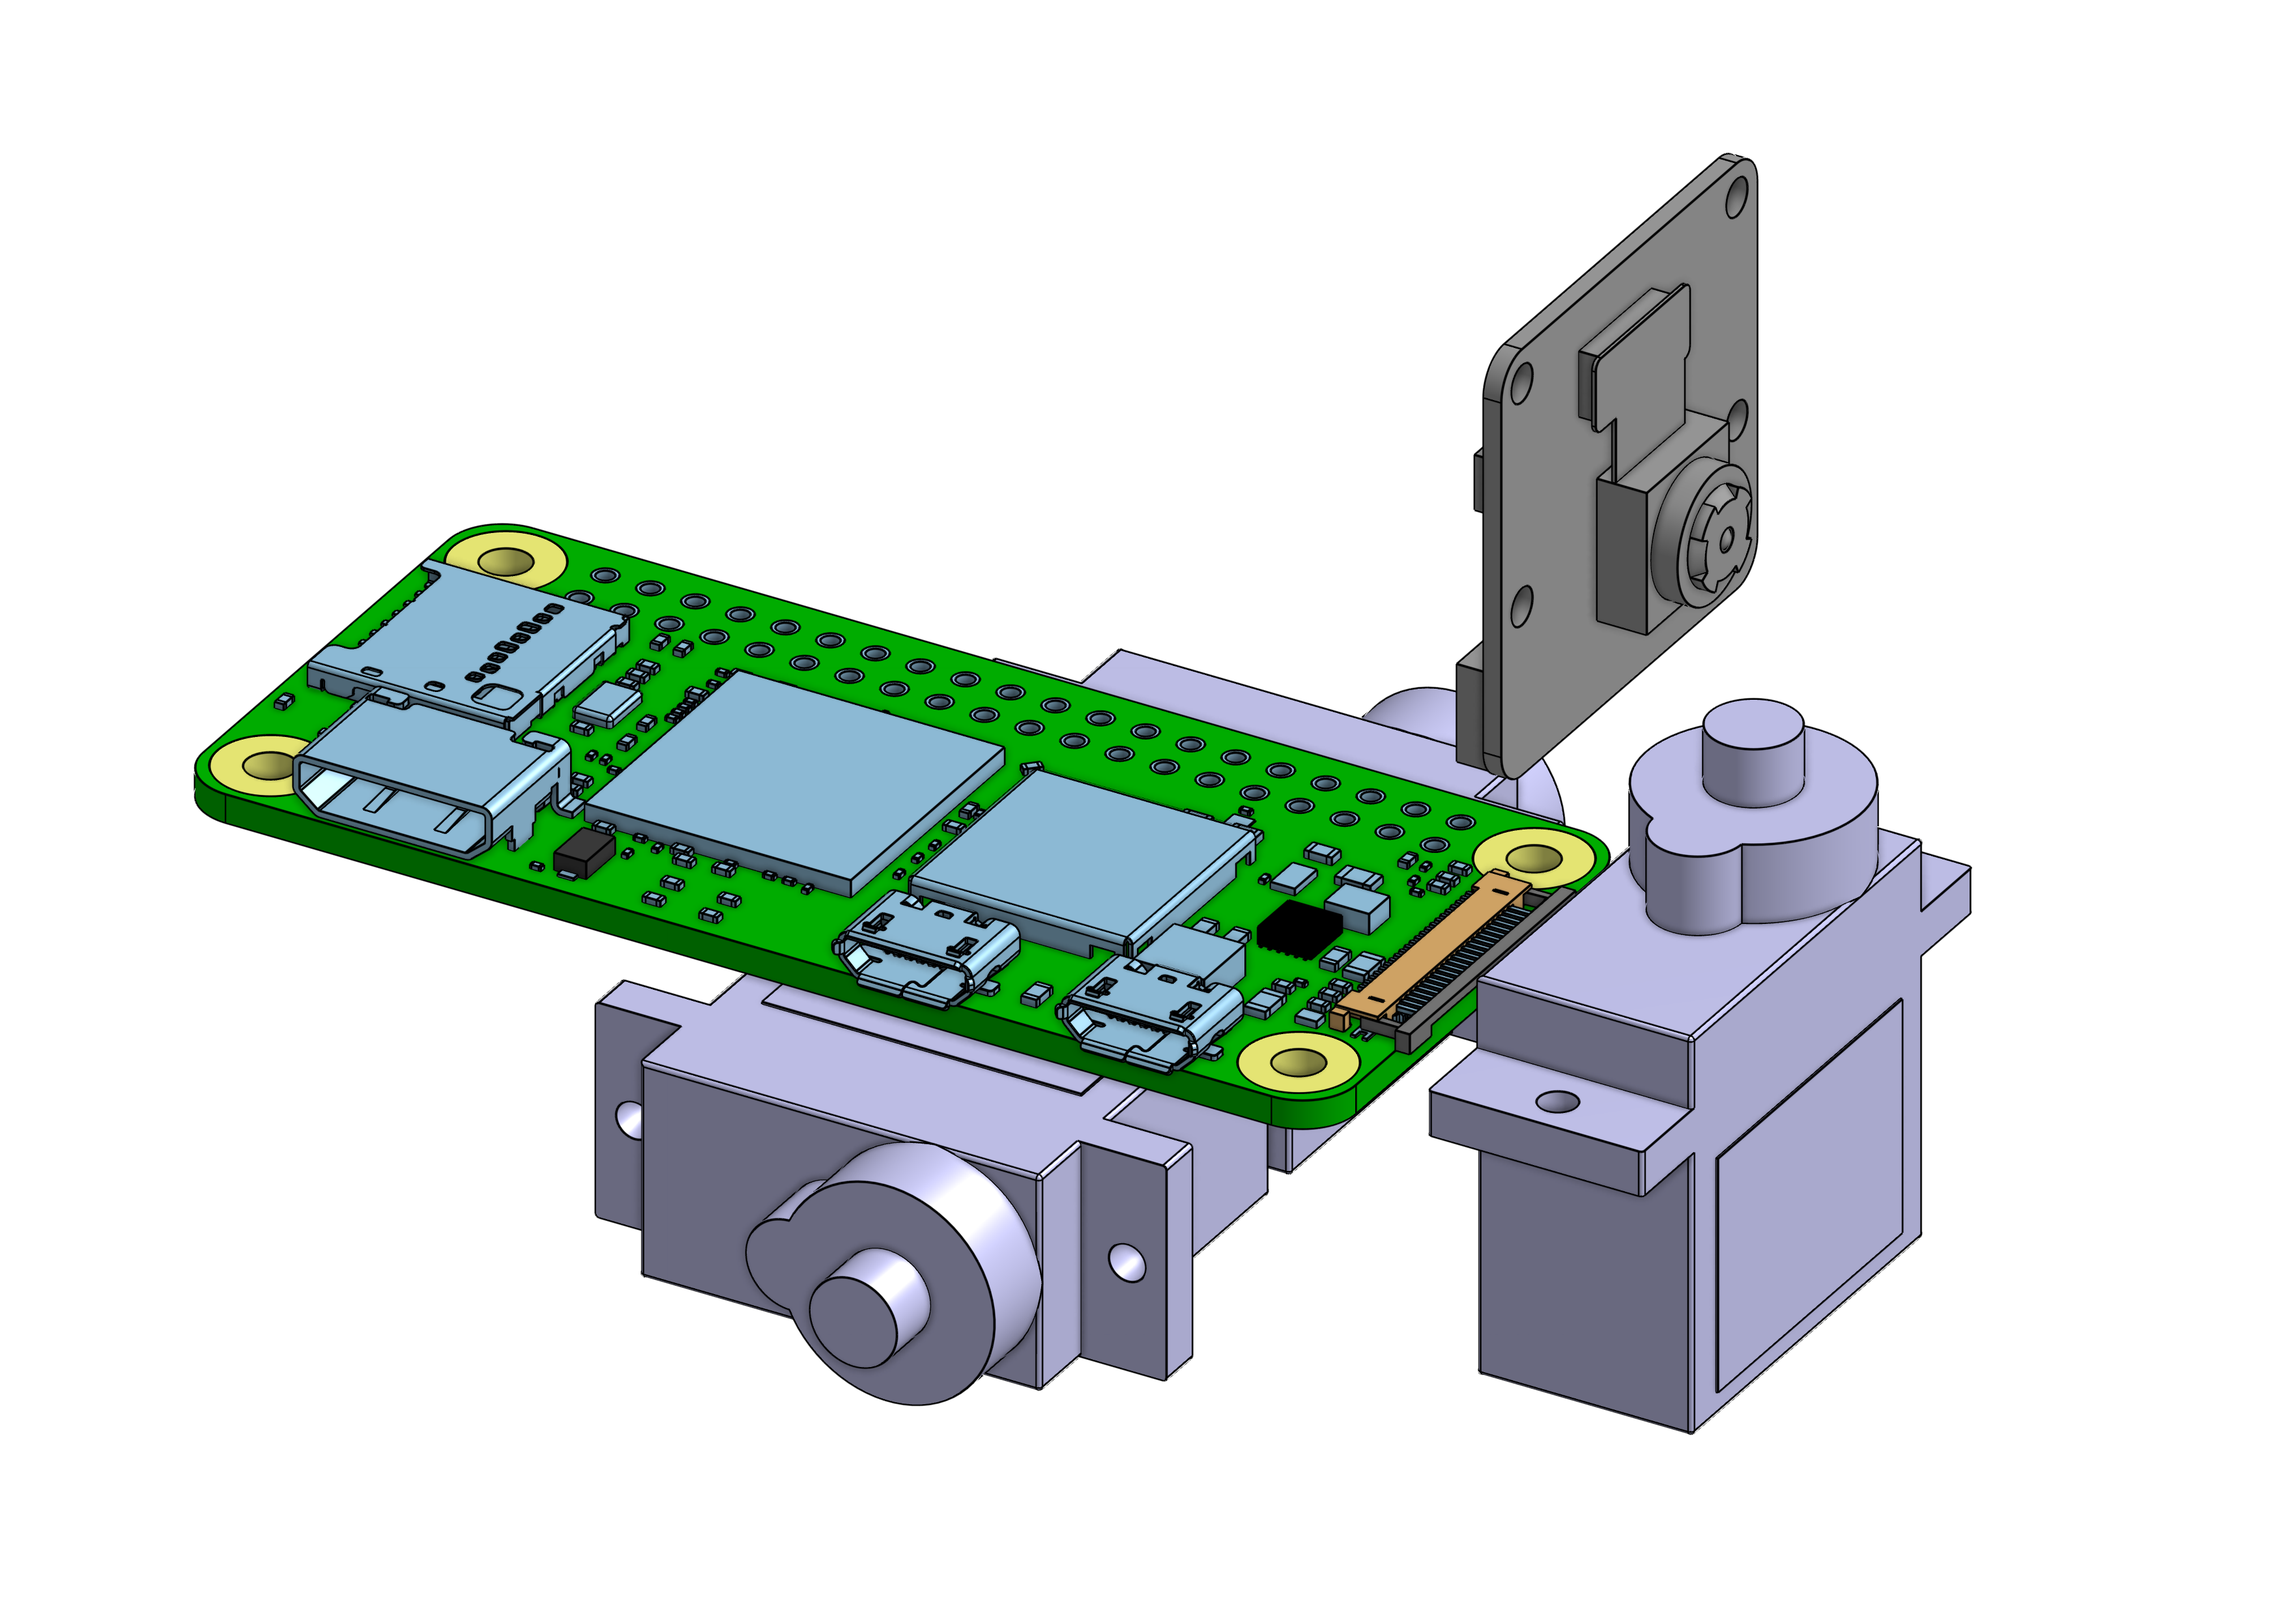
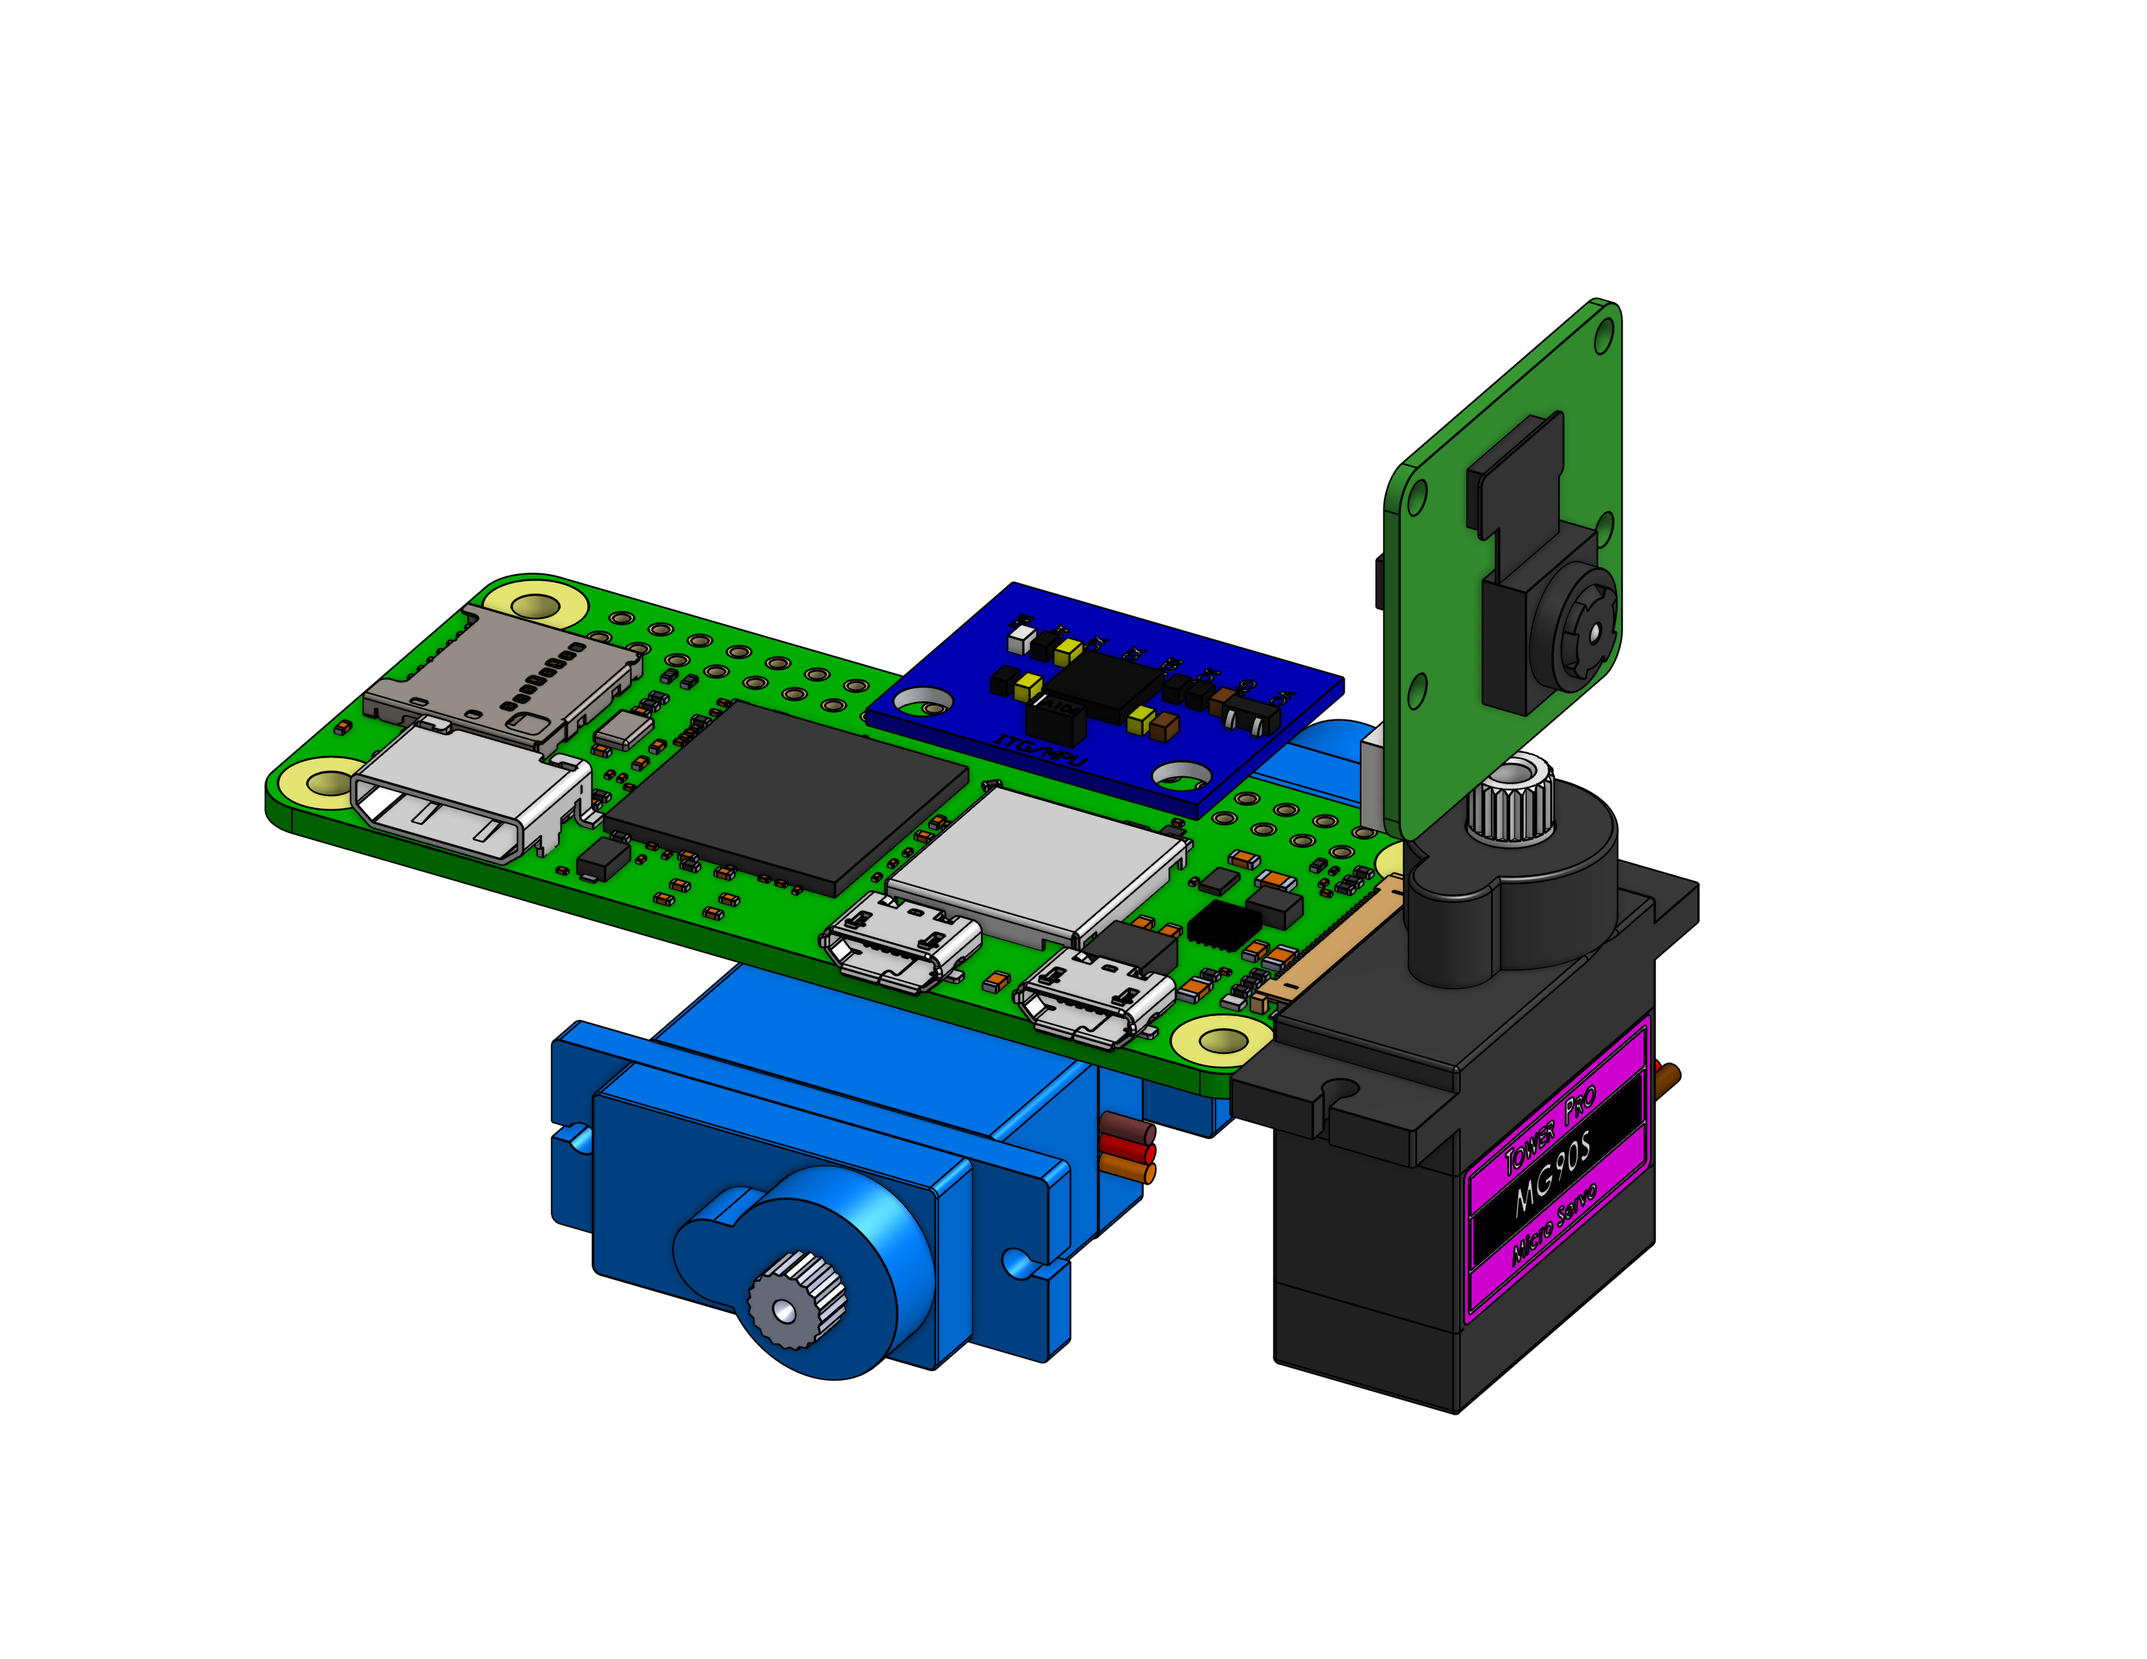
Updated components, README

Changed region(s): [[0.0625, 0.0933, 0.875, 0.9015]]

diff --git a/3D_model/README.md b/3D_model/README.md
@@ -14,7 +14,9 @@ to [onShape](https://www.onshape.com/en/).
 
 Imported all the current parts. This is a visualization of how the parts will be placed in the final case.
 
-The battery holder, charger, IMU and servo driver remains.
+> *changed the servo models to more accurate ones, added IMU*
+
+The battery holder, charger and servo driver remains.
 
 -----------------------------------------------------------
 
